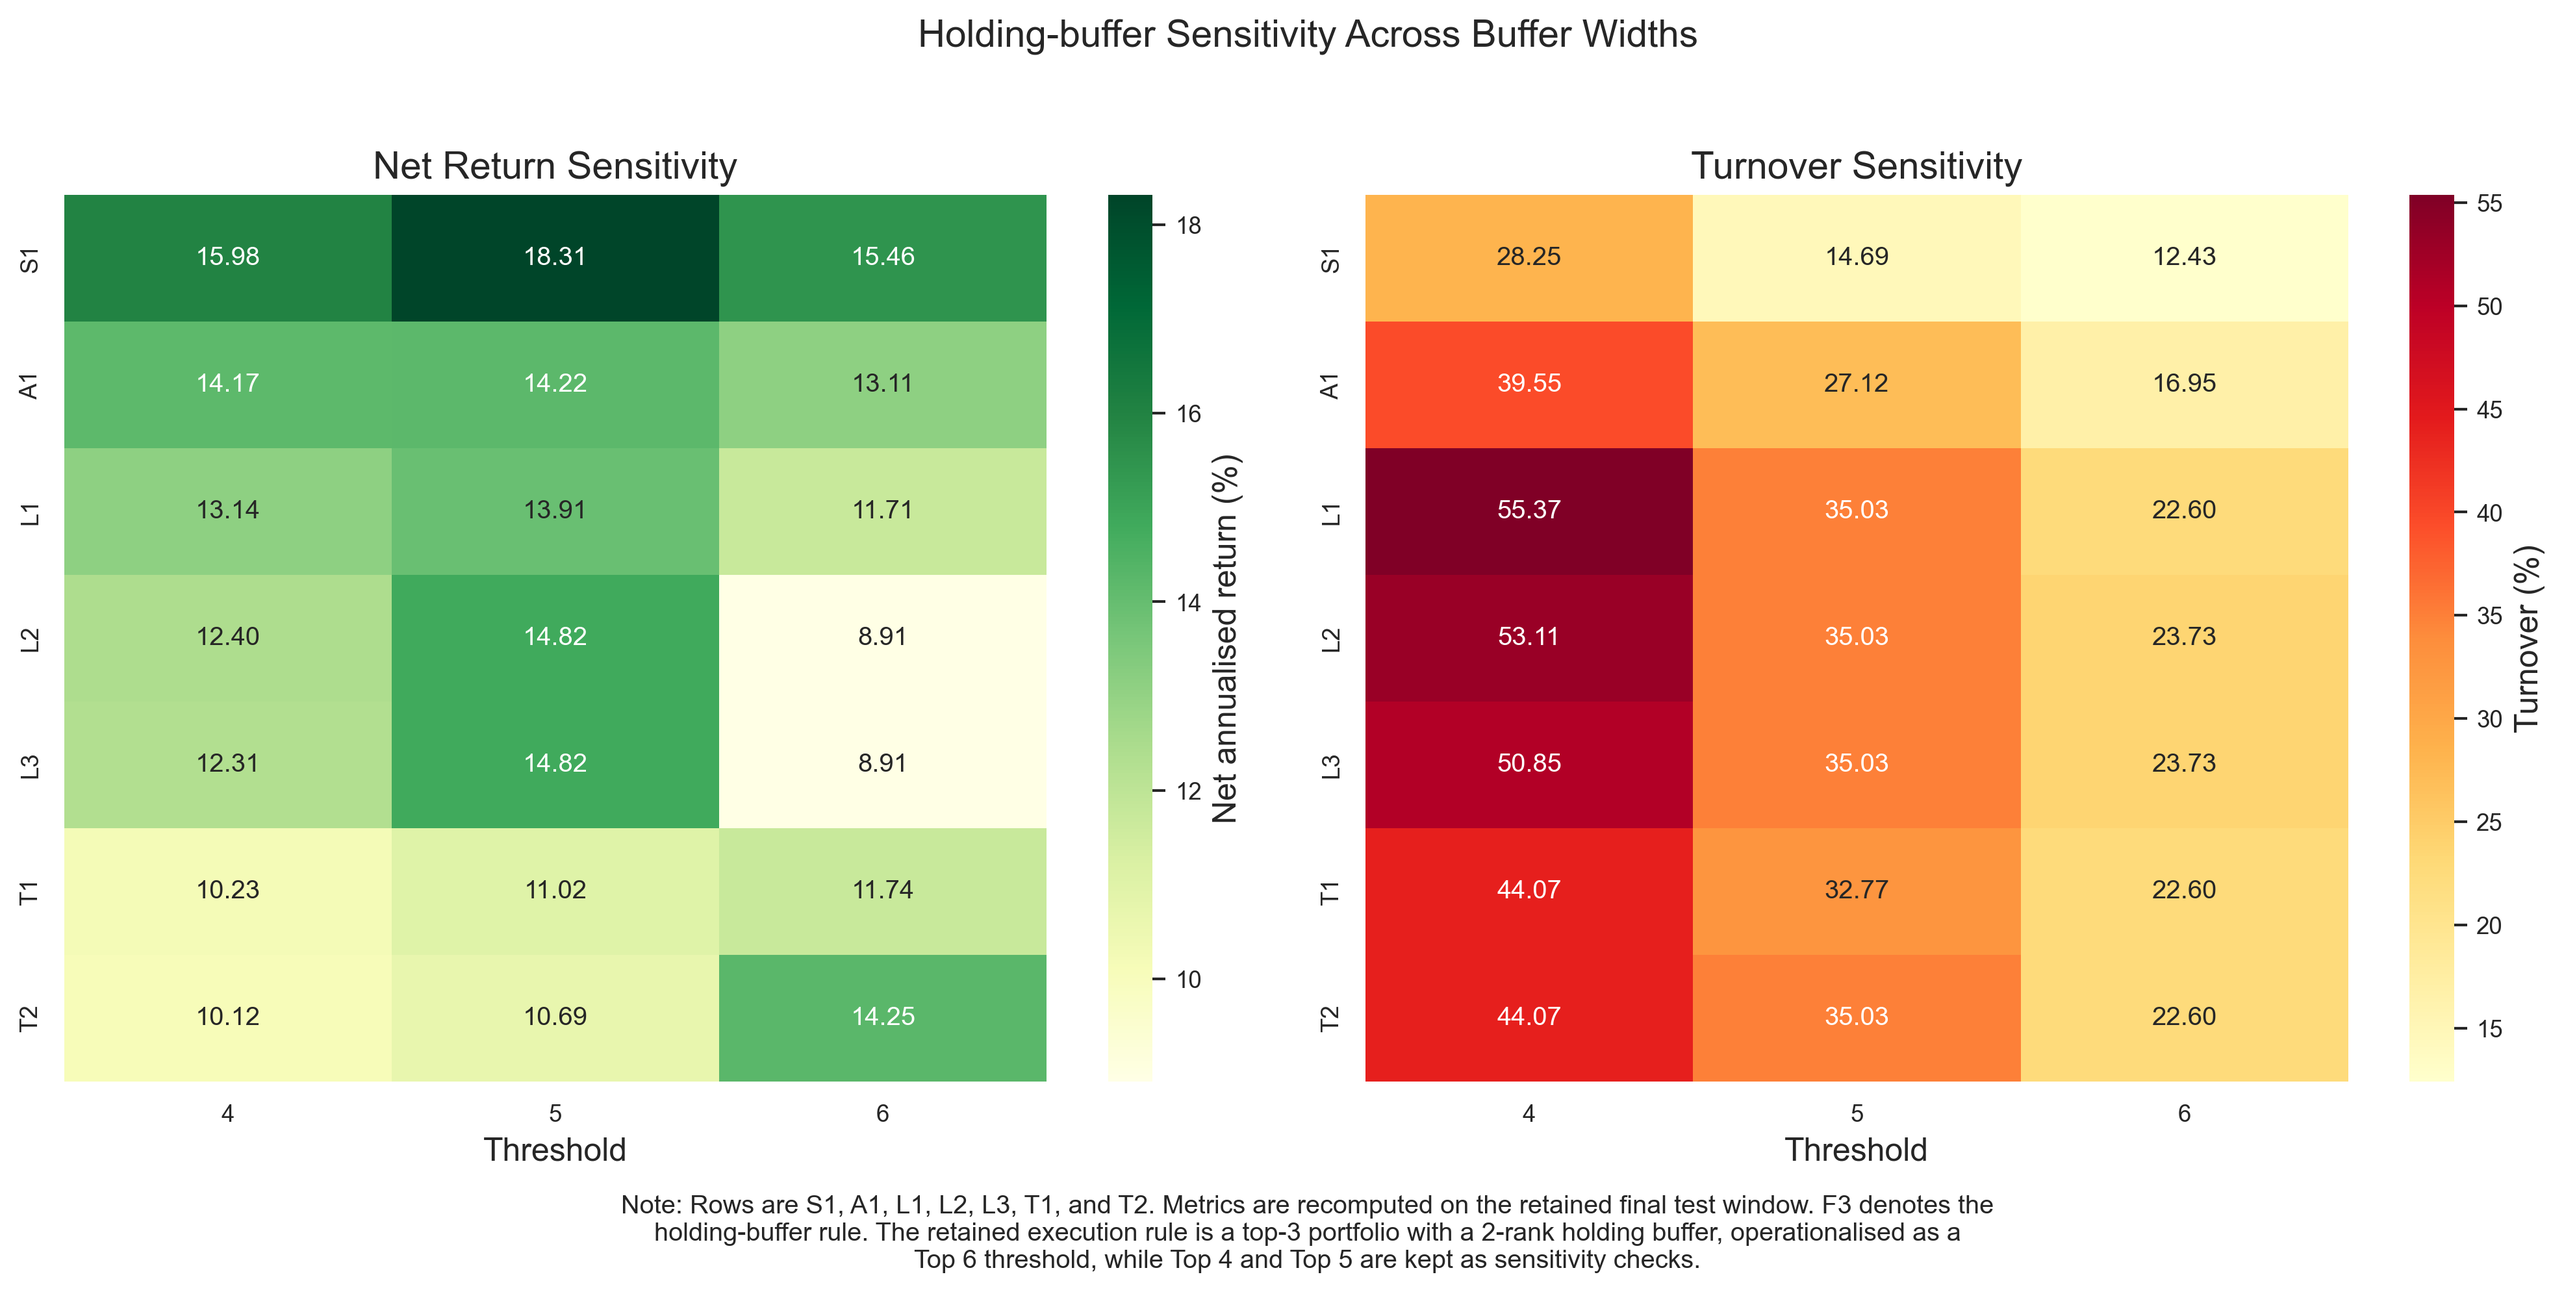
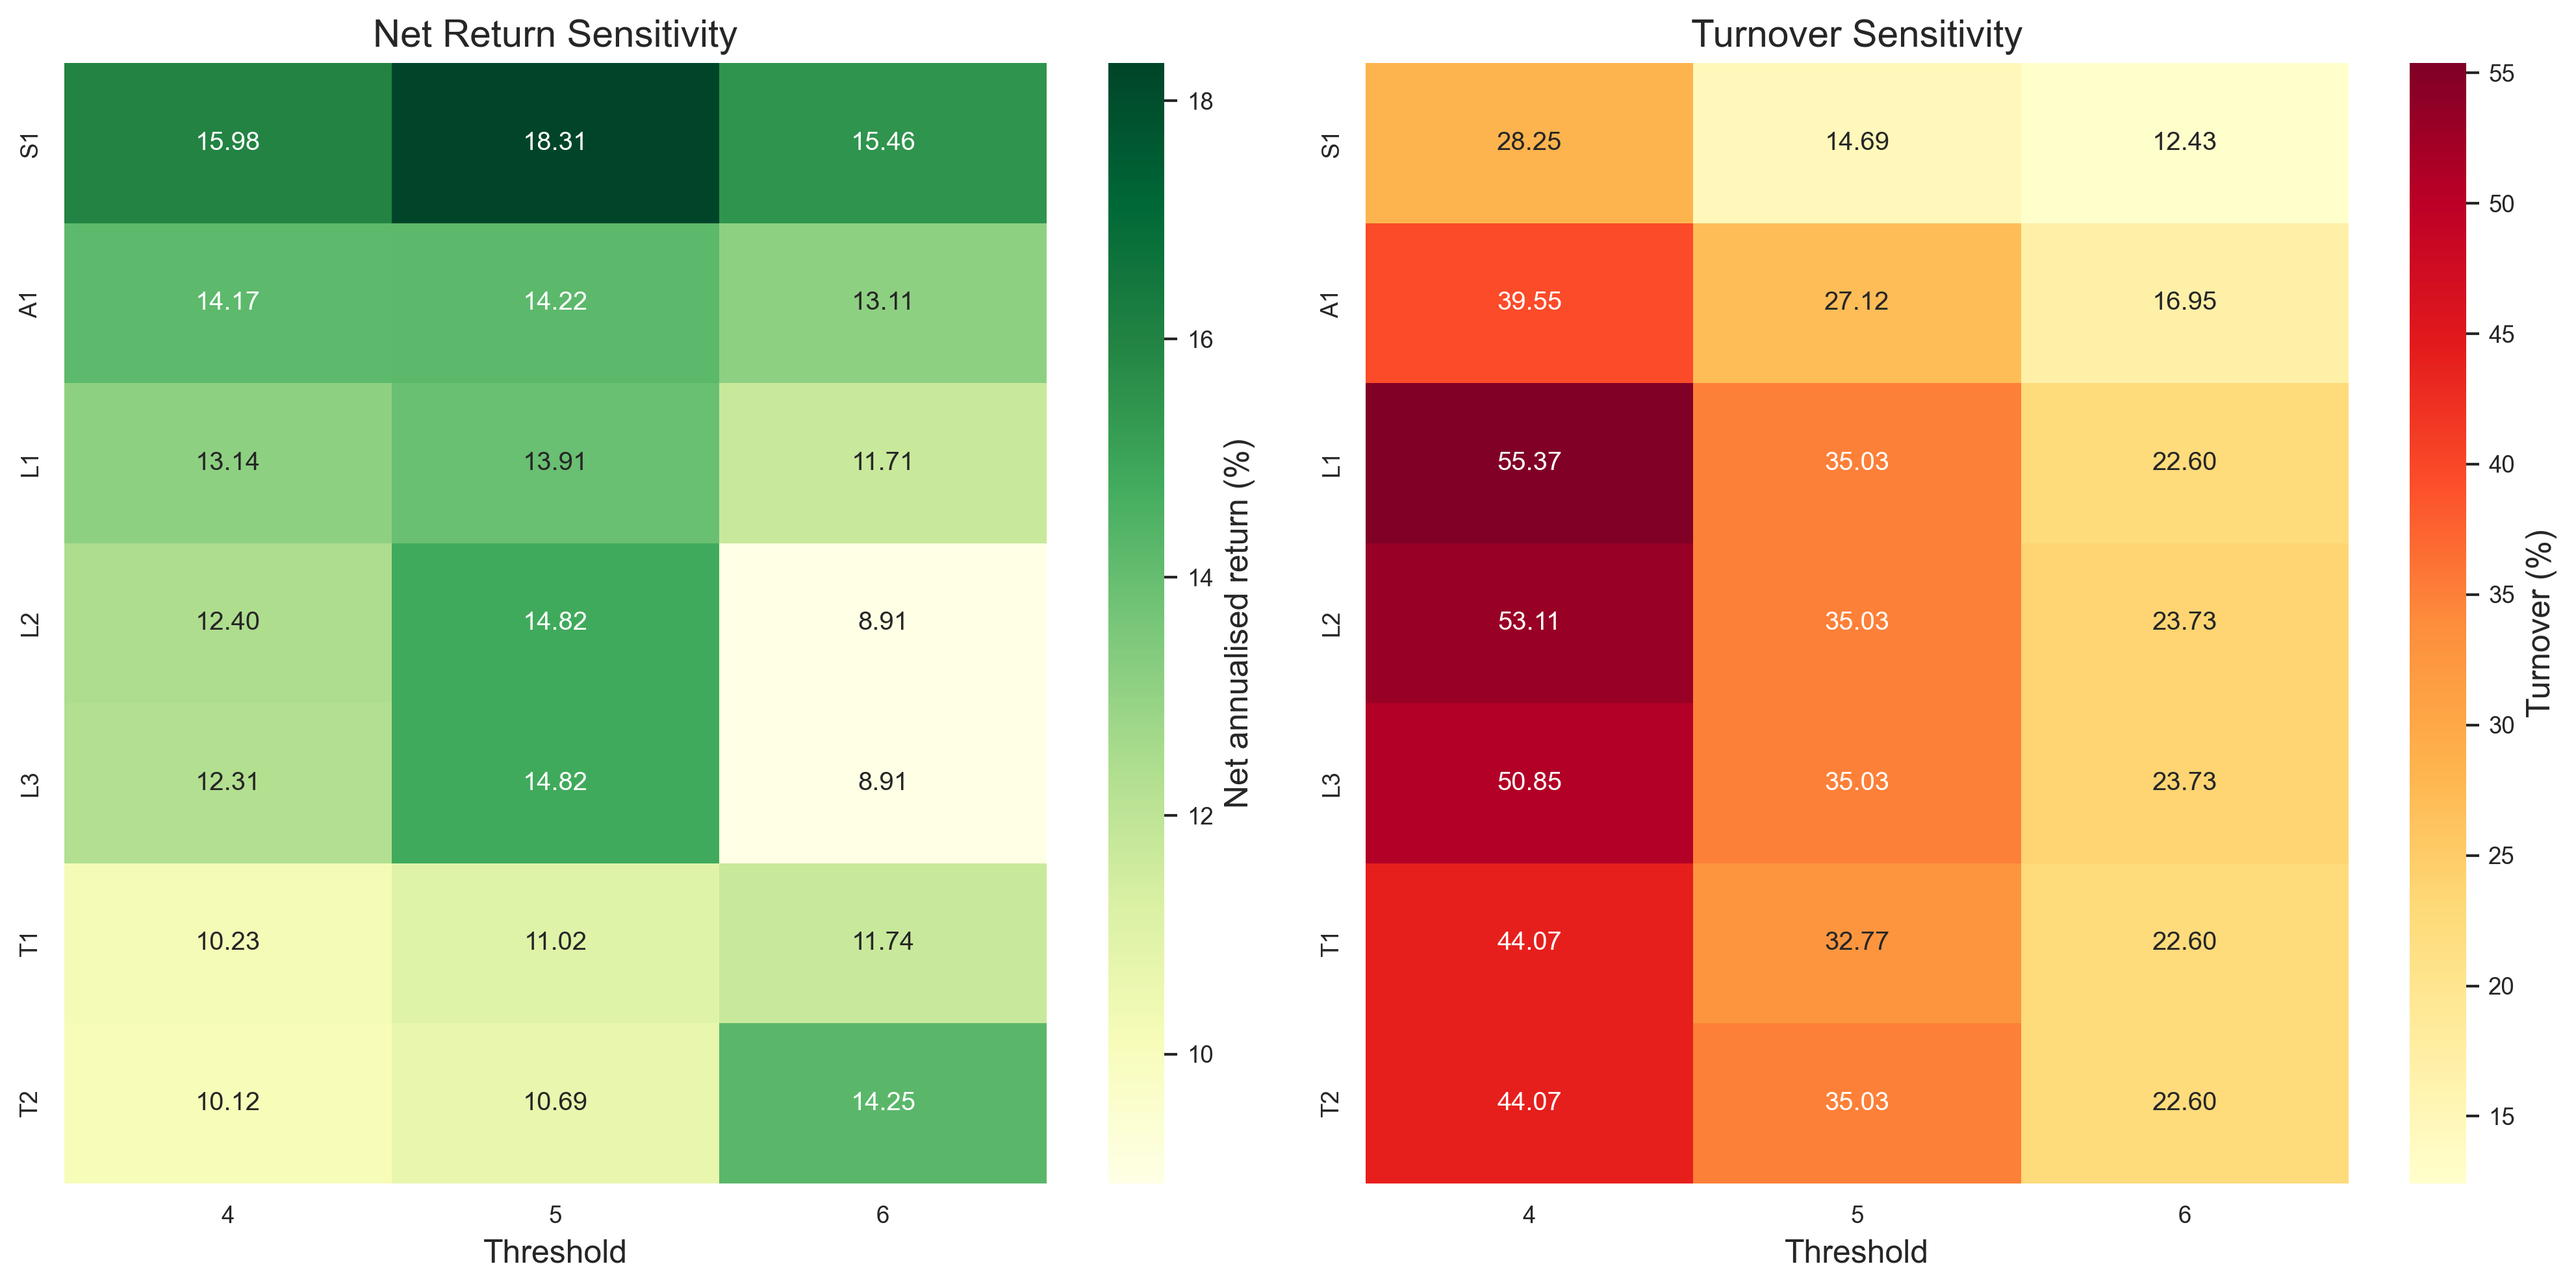
Simplify dissertation result figure layouts

diff --git a/scripts/generate_report_assets.py b/scripts/generate_report_assets.py
@@ -1977,17 +1977,9 @@ def make_figure_1_cumulative_wealth() -> None:
             label=MODEL_LABELS[model_key],
         )
 
-    plt.title("Net Cumulative Portfolio Wealth (Test Period)")
     plt.xlabel("Date")
     plt.ylabel("Cumulative wealth of $1")
     plt.legend(frameon=True, loc="center left", bbox_to_anchor=(1.02, 0.5))
-    plt.figtext(
-        0.01,
-        -0.02,
-        f"Note: Portfolio wealth series are net of time-varying transaction costs and shown for the final test period only ({test_start_str} to {test_end_str}).",
-        ha="left",
-        fontsize=10,
-    )
     plt.savefig(FIGURES_DIR / "figure_1_cumulative_portfolio_wealth.png")
     plt.close()
 
@@ -2319,7 +2311,6 @@ def make_figure_4_gross_vs_net_returns() -> None:
 
     plt.figure(figsize=(11, 6.5))
     sns.barplot(data=plot_frame, x="model_code", y="value_pct", hue="return_type", palette=["#4c78a8", "#f58518"])
-    plt.title("Gross and Net Annualised Returns")
     plt.xlabel("Model")
     plt.ylabel("Annualised return (%)")
     plt.legend(
@@ -2332,7 +2323,7 @@ def make_figure_4_gross_vs_net_returns() -> None:
     ax = plt.gca()
     for container in ax.containers:
         ax.bar_label(container, fmt="%.2f", padding=3, fontsize=9)
-    plt.tight_layout(rect=(0, 0, 1, 0.97))
+    plt.tight_layout()
     plt.savefig(FIGURES_DIR / "figure_4_gross_versus_net_returns.png")
     plt.close()
 
@@ -2436,22 +2427,7 @@ def make_figure_7_holding_buffer_sensitivity() -> None:
     axes[1].set_xlabel("Threshold")
     axes[1].set_ylabel("")
 
-    fig.suptitle("Holding-buffer Sensitivity Across Buffer Widths", fontsize=14)
-    note = (
-        "Note: Rows are S1, A1, L1, L2, L3, T1, and T2. Metrics are recomputed on the "
-        "retained final test window. F3 denotes the holding-buffer rule. The retained "
-        "execution rule is a top-3 portfolio with a 2-rank holding buffer, operationalised "
-        "as a Top 6 threshold, while Top 4 and Top 5 are kept as sensitivity checks."
-    )
-    fig.text(
-        0.5,
-        0.02,
-        "\n".join(textwrap.wrap(note, width=120)),
-        ha="center",
-        va="bottom",
-        fontsize=9.5,
-    )
-    fig.tight_layout(rect=(0, 0.08, 1, 0.95))
+    fig.tight_layout()
     plt.savefig(FIGURES_DIR / "figure_7_holding_buffer_sensitivity.png")
     plt.close()
 
@@ -2524,7 +2500,6 @@ def make_figure_9_framework_turnover_comparison() -> None:
         hue="framework_label",
         palette=["#7f8c8d", "#c97b63", "#2a9d8f"],
     )
-    plt.title("Turnover by Turnover-Control Framework", pad=12)
     plt.xlabel("Model")
     plt.ylabel("Turnover (%)")
     plt.legend(
@@ -2536,14 +2511,7 @@ def make_figure_9_framework_turnover_comparison() -> None:
     )
     for container in ax.containers:
         ax.bar_label(container, fmt="%.1f", padding=3, fontsize=8)
-    plt.figtext(
-        0.01,
-        -0.03,
-        "Note: Displayed model codes are S1, A1, L1, L2, L3, T1, and T2. Turnover is recomputed on the retained final test window under F1 (no control), F2 (PTA), and F3 (holding-buffer rule with a top-6 threshold).",
-        ha="left",
-        fontsize=10,
-    )
-    plt.tight_layout(rect=(0, 0, 1, 0.97))
+    plt.tight_layout()
     plt.savefig(FIGURES_DIR / "figure_9_framework_turnover_comparison.png")
     plt.close()
 
